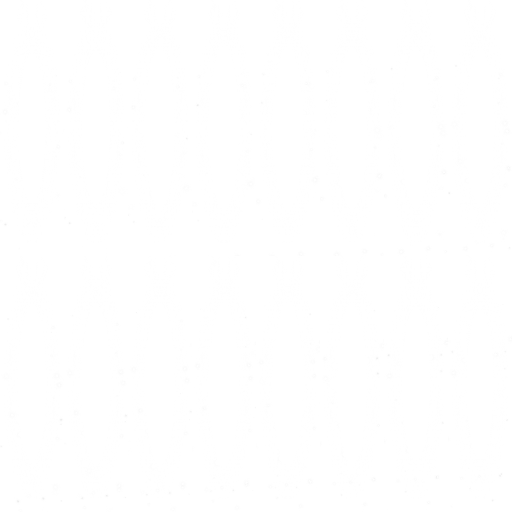
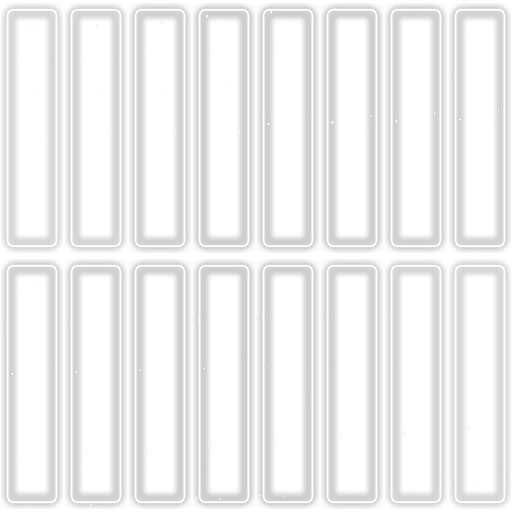
fix(render): key lights glow round the key's edge
The waiting and sounding lights are a neon outline round the key's edge,
with a soft halo baked into the outline, instead of a blob in its
middle; the sounding one burns brighter, with sparks and a faint fill.

diff --git a/src/render/KeyboardLayer.ts b/src/render/KeyboardLayer.ts
@@ -365,12 +365,13 @@ export class KeyboardLayer {
           light.tint = color;
           const loop = sounding ? this.lights?.lit : this.lights?.wait;
           if (loop) {
-            // Each key on its own step of the loop, so lit keys never pulse in step.
+            // Each key on its own step of the loop, so lit keys never pulse in step; the
+            // neon outline brings its own brightness.
             const step = Math.floor((performance.now() / 1000) * KEY_LIGHT_FPS) + pitch * 5;
             light.texture = loop[step % loop.length] ?? light.texture;
           }
           light.blendMode = key.black ? "add" : "normal";
-          light.alpha = key.black ? strength.black : strength.white;
+          light.alpha = loop ? 1 : key.black ? strength.black : strength.white;
           light.x = key.x + inset;
           light.width = key.width - inset * 2;
           light.y = keyboardTop;

diff --git a/src/render/keyLights.ts b/src/render/keyLights.ts
@@ -2,9 +2,10 @@ import { Assets, Rectangle, Texture } from "pixi.js";
 
 /*
  * The lights over the keys, baked by Arcadia Effector as looping atlases:
- * src/fx/key-wait.json breathes slowly over a key waiting to be played,
- * src/fx/key-lit.json burns with sparks over a key that sounds. Both are
- * white for a tint and the size of one key, 16 frames of 64×256 in 8×2.
+ * a neon outline round the key's edge that breathes slowly while the key
+ * waits to be played (src/fx/key-wait.json), and burns brighter with sparks
+ * once it sounds (src/fx/key-lit.json). Both are white for a tint and the
+ * size of one key, 16 frames of 64×256 in 8×2.
  */
 const ATLASES = {
   wait: new URL("../fx/key-wait.webp", import.meta.url).href,
